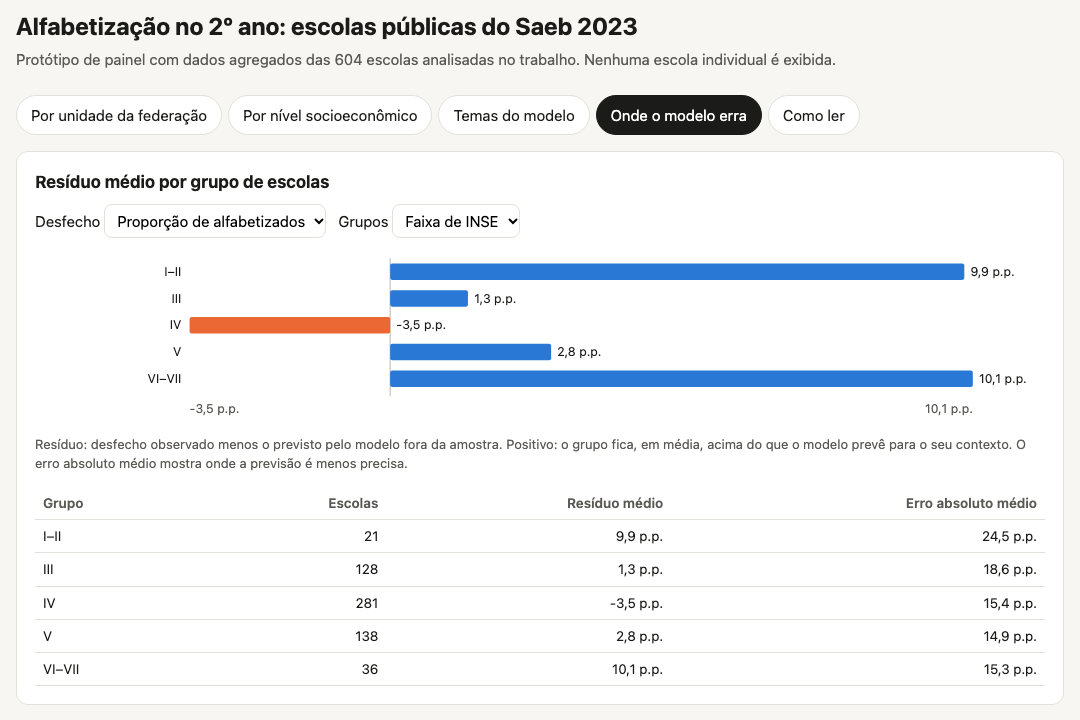
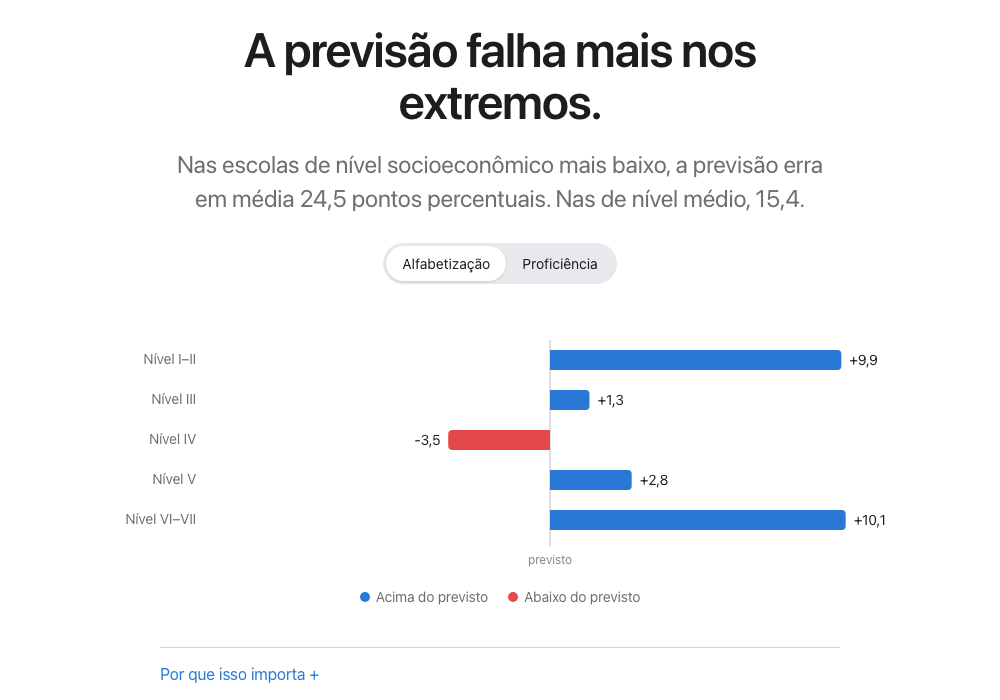
docs(resultados): descreve o painel refeito como narrativa com público definido

diff --git a/monografia/capitulos/resultados.tex b/monografia/capitulos/resultados.tex
@@ -323,29 +323,34 @@ localização e faixa de INSE. Grupos com menos de 5 escolas têm os valores
 suprimidos, e nenhuma escola individual aparece, pelo critério de
 anonimização da Lei Geral de Proteção de Dados (Seção~\ref{sec:etica}).
 
-O painel tem quatro telas. A primeira mostra os desfechos por unidade da
-federação, sem e com peso amostral, com filtro por região
-(Figura~\ref{fig:painel-uf}). Cada unidade da federação tem de 12 a 45
-escolas na base, e o painel avisa que as médias estaduais são imprecisas e
-não substituem as estimativas oficiais. A segunda repete a
-Figura~\ref{fig:desfechos-inse} por faixa de INSE. A terceira mostra a
-ordem dos temas no SHAP e a estabilidade dessa ordem, com a advertência de
-que participação na previsão indica associação. A quarta mostra o resíduo
-médio e o erro absoluto médio por grupo de escolas
-(Figura~\ref{fig:painel-erro}).
+O público principal são pesquisadores, estudantes e jornalistas de
+educação, e os gestores vêm em segundo lugar. Por isso o painel é uma
+narrativa curta, com um achado por tela, e cada gráfico traz a tabela dos
+números e a explicação do método. A abertura pede ao leitor um palpite
+sobre quantas crianças de cada 100 se alfabetizam na rede pública e só
+então revela a estimativa com peso amostral, de 49 em cada 100
+(Figura~\ref{fig:painel-abertura}). As telas seguintes tratam do lugar,
+do nível socioeconômico, do pouco que os questionários acrescentam, dos
+limites da previsão e dos temas de maior peso, e o leitor termina
+explorando a própria unidade da federação e baixando os dados. Cada
+unidade da federação tem de 12 a 45 escolas na base, e o painel avisa que
+as médias estaduais são imprecisas e não substituem as estimativas
+oficiais.
 
 \begin{figure}[H]
     \centering
-    \caption{Tela do painel com os desfechos por unidade da federação}
-    \includegraphics[width=0.85\textwidth]{figuras/painel_uf.png}
+    \caption{Abertura do painel, depois do palpite do leitor}
+    \includegraphics[width=0.7\textwidth]{figuras/painel_abertura.png}
     \begin{flushleft}
     {\footnotesize Fonte: elaborada pelo autor, com base nos microdados do
-    Saeb 2023 (Inep).}
+    Saeb 2023 (Inep). Os pontos cheios são a estimativa, e os contornados
+    vão até o palpite.}
     \end{flushleft}
-    \label{fig:painel-uf}
+    \label{fig:painel-abertura}
 \end{figure}
 
-A quarta tela é a que mais informa o gestor. Por faixa de INSE, o resíduo
+A tela sobre os limites da previsão é a que mais informa o gestor
+(Figura~\ref{fig:painel-erro}). Por faixa de INSE, o resíduo
 médio da proporção de alfabetizados tem forma de U. As escolas das faixas
 I e II ficam 9,9 pontos percentuais acima do previsto, as da faixa IV
 ficam 3,5 pontos abaixo, e as das faixas VI e VII, 10,1 pontos acima. O
